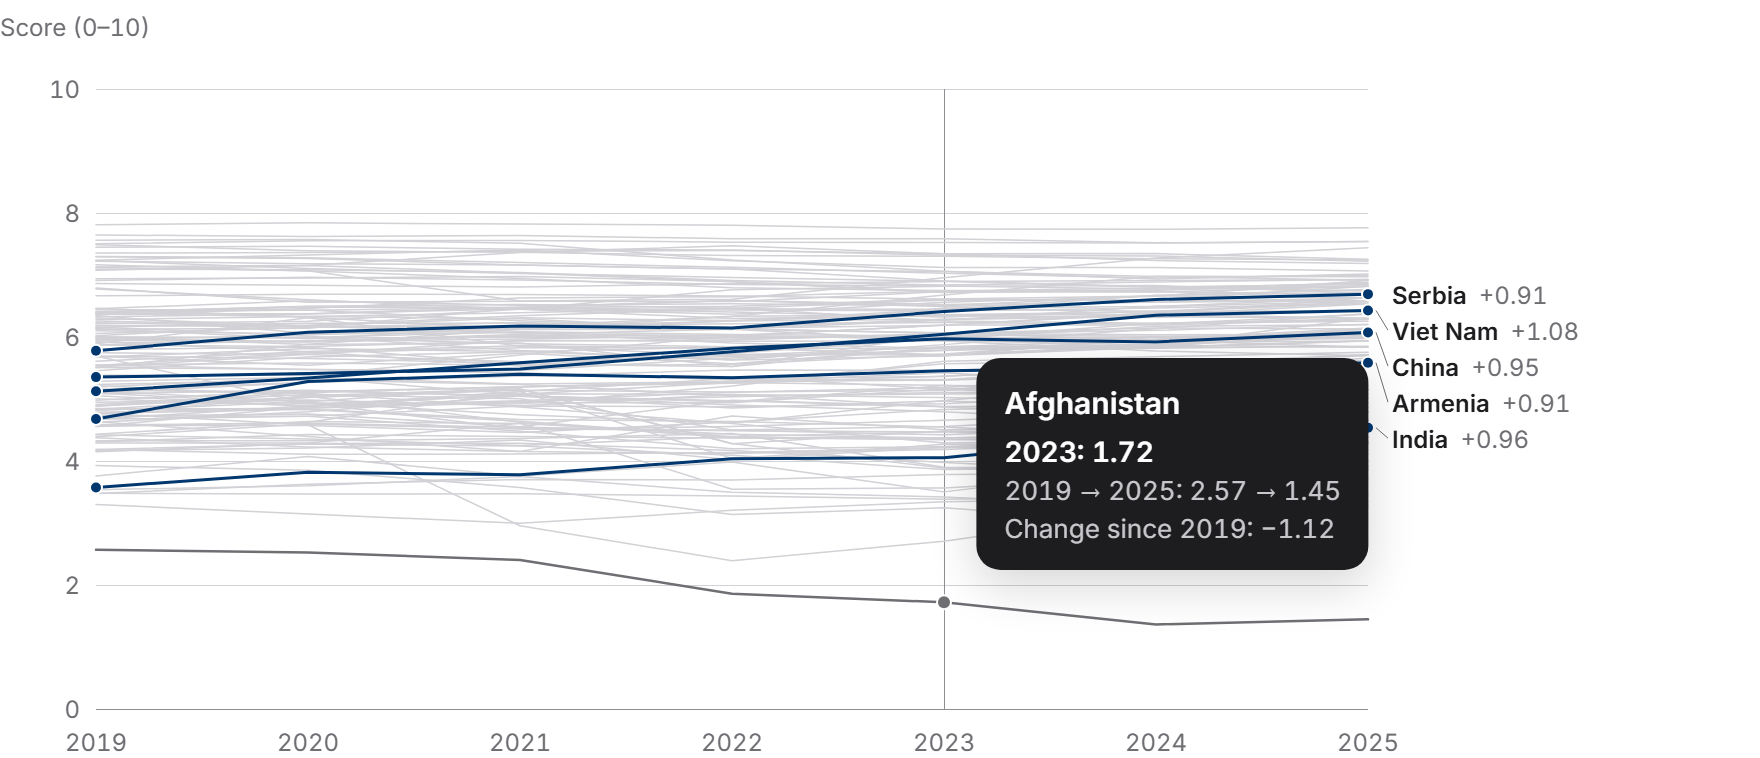
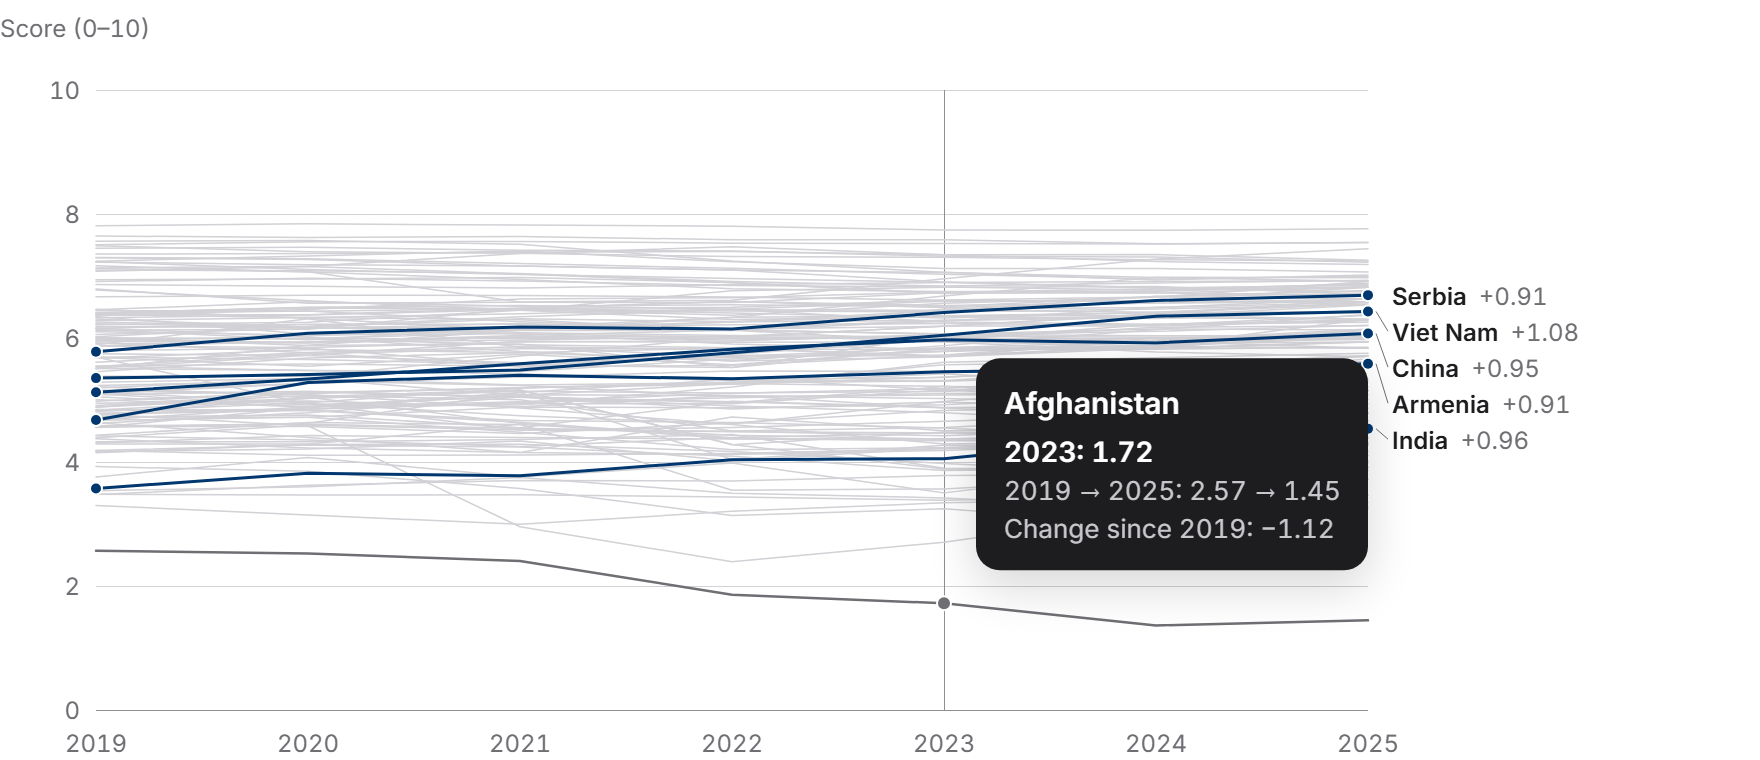
ai: fix the checker's confirmed findings and harden the checks
Page: no sideways page scroll with a table open, filtered-out marks leave the accessibility tree,
table keys don't move the page, highlighted table rows are exposed, high contrast works on black,
and no stale tooltip or crosshair when the keyboard takes over from a parked mouse.
Checks: the Figma crop is now really tested, tooltip clamps are exercised, failures print on a
Windows pipe and exit 1, and unreachable fonts aren't a failure. 58/58.

diff --git a/js/chart2.js b/js/chart2.js
@@ -110,6 +110,8 @@ function chart2(data, continents) {
     // keyboard: tab to a label to light up its line, with the same tooltip as hovering
     label.on("focus", function (event, d) {
       if (focusedByMouse(this)) return;
+      crosshair.attr("visibility", "hidden");
+      marker.attr("visibility", "hidden");
       paintHover(d.s);
       showTooltipAt(this, d.s.country, tip(d.s, 2025));
     }).on("blur", () => {
@@ -211,7 +213,7 @@ function chart2(data, continents) {
 
     paths.filter(highlighted).raise();
     if (state.hover) paths.filter(s => s === state.hover).raise();
-    tableRows.classed("highlighted", highlighted);
+    tableRows.classed("highlighted", highlighted).attr("aria-current", s => highlighted(s) ? "true" : null);
 
     (animate ? dots.transition(t) : dots)
       .attr("r", d => highlighted(d.s) ? 5 : 3)
@@ -234,7 +236,9 @@ function chart2(data, continents) {
       const named = group.selectAll(".label, line");
       (animate ? named.transition(t) : named).attr("opacity", d => included(d.s) ? 1 : faded * 2);
       // only labels you can read are tab stops, the same rule as the rows on charts 1 and 3
-      group.selectAll(".label").attr("tabindex", d => on && included(d.s) ? 0 : -1);
+      group.selectAll(".label")
+        .attr("tabindex", d => on && included(d.s) ? 0 : -1)
+        .attr("aria-hidden", d => included(d.s) ? null : "true");
     }
   }
 
@@ -251,6 +255,7 @@ function chart2(data, continents) {
     },
     filter(continent) {
       state.continent = continent;
+      if (state.hover && !included(state.hover)) leave();
       paint(true);
       tableRows.attr("hidden", s => included(s) ? null : "");
       return series.filter(included).length;

diff --git a/css/site.css b/css/site.css
@@ -148,6 +148,7 @@ h1 {
   border-radius: var(--panel-radius);
   padding: clamp(20px, 3.2vw, 40px);
   display: grid;
+  grid-template-columns: minmax(0, 1fr);
   gap: 16px;
   min-width: 0;
 }
@@ -275,6 +276,7 @@ h2 {
   margin-top: 8px;
   max-height: 440px;
   overflow: auto;
+  overscroll-behavior: contain;
   border-radius: 10px;
   box-shadow: inset 0 0 0 1px var(--color-bg-secondary);
 }
@@ -432,7 +434,7 @@ code { font-family: ui-monospace, SFMono-Regular, Menlo, Consolas, monospace; fo
 
 :focus-visible { outline: 2px solid var(--color-data-focus); outline-offset: 2px; }
 .row, .label, .segmented button, .data-table summary, .table-scroll { scroll-margin-top: 72px; }
-.table-scroll:focus-visible { outline-offset: -2px; }
+.table-scroll:focus-visible { outline-offset: 0; }
 
 /* windows high contrast mode: keep the legend's colors and show which control is selected */
 @media (forced-colors: active) {
@@ -440,6 +442,10 @@ code { font-family: ui-monospace, SFMono-Regular, Menlo, Consolas, monospace; fo
   .chips button[aria-pressed="true"] { background: Highlight; border-color: Highlight; color: HighlightText; forced-color-adjust: none; }
   .segmented .thumb { outline: 2px solid CanvasText; }
   .filter-bar.is-stuck { outline: 1px solid CanvasText; }
+  .chart text, .chart tspan { fill: CanvasText; }
+  .halo { stroke: Canvas; }
+  .row:focus-visible .bar, .row:focus-visible .segment { stroke: Highlight; }
+  .tooltip, .empty { border: 1px solid CanvasText; }
 }
 
 @media (prefers-reduced-motion: reduce) {

diff --git a/js/theme.js b/js/theme.js
@@ -3,6 +3,17 @@
 const css = getComputedStyle(document.documentElement);
 const token = name => css.getPropertyValue(`--${name}`).trim();
 
+// windows high contrast mode replaces the page's colors, so a mark's accent has to be a system
+// color too. d3 needs a real value to animate, so a throwaway element reports what it resolves to
+const forcedColors = window.matchMedia("(forced-colors: active)").matches;
+function systemColor(name) {
+  const probe = document.body.appendChild(document.createElement("span"));
+  probe.style.color = name;
+  const value = getComputedStyle(probe).color;
+  probe.remove();
+  return value;
+}
+
 const colors = {
   ink: token("color-text-primary"),
   muted: token("color-text-secondary"),
@@ -10,7 +21,7 @@ const colors = {
   grid: token("color-line-grid"),
   axis: token("color-line-axis"),
   context: token("color-data-context"),
-  focus: token("color-data-focus")
+  focus: forcedColors ? systemColor("Highlight") : token("color-data-focus")
 };
 
 // one motion setting for every chart change: d3's quartic ease-in-out is the same curve as the

diff --git a/js/chart1.js b/js/chart1.js
@@ -105,7 +105,7 @@ function chart1(data, continents) {
       const included = d => continent === "All" || d.continent === continent;
       row.transition().duration(motion.duration).ease(motion.ease)
         .attr("opacity", d => included(d) ? 1 : faded);
-      row.attr("tabindex", d => included(d) ? 0 : -1);
+      row.attr("tabindex", d => included(d) ? 0 : -1).attr("aria-hidden", d => included(d) ? null : "true");
       tableRows.attr("hidden", d => included(d) ? null : "");
       return rows.filter(included).length;
     },

diff --git a/js/chart3.js b/js/chart3.js
@@ -124,7 +124,7 @@ function chart3(data, continents) {
       const included = d => continent === "All" || d.continent === continent;
       row.transition().duration(motion.duration).ease(motion.ease)
         .attr("opacity", d => included(d) ? 1 : faded);
-      row.attr("tabindex", d => included(d) ? 0 : -1);
+      row.attr("tabindex", d => included(d) ? 0 : -1).attr("aria-hidden", d => included(d) ? null : "true");
       tableRows.attr("hidden", d => included(d) ? null : "");
       return rows.filter(included).length;
     },

diff --git a/scripts/check_page.py b/scripts/check_page.py
@@ -9,6 +9,7 @@ import argparse
 import functools
 import http.server
 import json
+import sys
 import threading
 from decimal import Decimal, ROUND_HALF_UP
 from pathlib import Path
@@ -52,6 +53,7 @@ def serve():
 
 
 def main():
+    sys.stdout.reconfigure(encoding="utf-8")
     parser = argparse.ArgumentParser()
     parser.add_argument("--shots", default=None)
     args = parser.parse_args()
@@ -62,10 +64,13 @@ def main():
     with sync_playwright() as p:
         browser = p.chromium.launch()
         page = browser.new_page(viewport={"width": 1440, "height": 1000})
-        page.on("console", lambda m: errors.append(m.text) if m.type == "error" and "ERR_TUNNEL_CONNECTION_FAILED" not in m.text else None)
+        fonts = ("fonts.googleapis.com", "fonts.gstatic.com")
+        page.on("console", lambda m: errors.append(m.text) if m.type == "error" and not any(f in m.location.get("url", "") for f in fonts) else None)
         page.on("pageerror", lambda e: errors.append(str(e)))
         page.goto(url, wait_until="networkidle")
         page.wait_for_selector("#chart3 .segment", timeout=10000)
+        off = page.eval_on_selector_all("#chart2 svg > g[aria-hidden='true']", "gs => gs.filter(g => g.querySelector('.label')).map(g => g.getAttribute('visibility'))")
+        check("the hidden label set is hidden from first paint", off == ["hidden"], off)
 
         # chart 1: 20 bars, each value label = score at 2 decimals, each bar 128px per point
         c1 = data["chart1_ranked_bar"]["top10"] + data["chart1_ranked_bar"]["bottom10"]
@@ -114,6 +119,12 @@ def main():
         check("every comparison image has alt text", all(s["alt"] for s in stills), stills)
         sizes = page.eval_on_selector_all(".pair", "pairs => pairs.map(p => [...p.querySelectorAll('.shot')].map(s => { const b = s.getBoundingClientRect(); return [Math.round(b.width), Math.round(b.height)]; }))")
         check("each figma and d3 pair is the same size", len(sizes) == 3 and all(a == b for a, b in sizes), sizes)
+        crops = page.eval_on_selector_all(".shot-figma", """shots => shots.map((s, i) => {
+            const [vx, vy, vw] = document.querySelector(`#chart${i + 1} svg`).getAttribute('viewBox').split(' ').map(Number);
+            const box = s.getBoundingClientRect(), im = s.querySelector('img'), img = im.getBoundingClientRect(), k = box.width / vw;
+            return [img.left - box.left + vx * k, img.top - box.top + vy * k, im.getAttribute('src').includes(`chart${i + 1}-`)];
+        })""")
+        check("each figma crop shows its chart's viewbox", len(crops) == 3 and all(abs(x) < 0.5 and abs(y) < 0.5 and own for x, y, own in crops), crops)
 
         # data tables: every cell equals this script's own rounding of chart-data.json
         def table(chart):
@@ -196,6 +207,8 @@ def main():
         african = lambda names: all(continents[n] == "Africa" for n in names)
         one, two, three = visible("#chart1"), visible("#chart2"), visible("#chart3")
         check("the filter also filters the tables", three == ["Mauritius"] and african(one) and african(two) and len(two) == sum(continents[s["country"]] == "Africa" for s in all_lines), (len(one), len(two), three))
+        exposed = page.eval_on_selector_all("#chart1 .row, #chart3 .row, #chart2 g:not([aria-hidden]) > .label", "e => e.filter(x => x.getAttribute('aria-hidden') !== 'true').map(x => x.__data__.s ? x.__data__.s.country : x.__data__.country)")
+        check("filtered-out marks leave the accessibility tree", african(exposed), exposed)
         page.click("#continent-oceania")
         page.wait_for_timeout(450)
         stops = page.eval_on_selector_all("#chart2 .label", "l => l.filter(x => x.getAttribute('tabindex') === '0').map(x => x.__data__.s.country)")
@@ -207,8 +220,8 @@ def main():
         check("chart 2 leader lines fade with their labels", leaders and "0.24" in leaders, leaders)
         page.click("#continent-all")
         page.wait_for_timeout(450)
-        cleared = page.eval_on_selector("#chart1 .empty", "e => e.textContent")
-        check("the empty message clears", cleared == "", cleared)
+        cleared = page.eval_on_selector("#chart1 .empty", "e => [e.textContent, e.classList.contains('on')]")
+        check("the empty message clears", cleared == ["", False], cleared)
 
         # controls don't move when pressed: the toggle and the chips keep their size in both states
         size = "e => e.getBoundingClientRect().width"
@@ -320,10 +333,10 @@ def main():
         # the tooltip stays with a focused row on scroll, and steps away when the row is off screen
         keys.keyboard.press("Tab")
         keys.wait_for_timeout(200)
-        beside = keys.evaluate("() => { const r = document.activeElement.getBoundingClientRect(), t = document.querySelector('.tooltip').getBoundingClientRect(); return Math.abs(t.top - r.top) < 80; }")
+        beside = keys.evaluate("() => { const r = document.activeElement.getBoundingClientRect(), t = document.querySelector('.tooltip').getBoundingClientRect(); return t.top < r.bottom + 40 && t.bottom > r.top - 40; }")
         keys.evaluate("window.scrollBy(0, 60)")
         keys.wait_for_timeout(200)
-        still = keys.evaluate("() => { const r = document.activeElement.getBoundingClientRect(), t = document.querySelector('.tooltip').getBoundingClientRect(); return Math.abs(t.top - r.top) < 80; }")
+        still = keys.evaluate("() => { const r = document.activeElement.getBoundingClientRect(), t = document.querySelector('.tooltip').getBoundingClientRect(); return t.top < r.bottom + 40 && t.bottom > r.top - 40; }")
         keys.evaluate("window.scrollBy(0, 1600)")
         keys.wait_for_timeout(250)
         gone = keys.evaluate(describe)
@@ -346,6 +359,39 @@ def main():
         opened = keys.evaluate("(() => { const d = document.querySelector('#chart2 .data-table'), s = d.querySelector('.table-scroll'); return [d.open, s.scrollHeight > s.clientHeight, s.tabIndex]; })()")
         check("a data table opens with the keyboard and scrolls in its box", opened == [True, True, 0], opened)
         keys.keyboard.press("Enter")
+
+        # a mouse parked on a line must not leave stale marks when the keyboard takes over
+        park = """() => {
+            document.querySelector('#chart2 svg').scrollIntoView({ block: 'center' });
+            const b = document.querySelector('#chart2 svg').getBoundingClientRect();
+            const s = b.width / 1760;
+            return [b.x + (176 + 4 * 212 - 80) * s, b.y + (910 - %s * 62 - 200) * s];
+        }""" % next(s for s in lines["fallers"] if s["country"] == "Afghanistan")["scores"][4]
+        marks = """() => [document.querySelector('.tooltip .tooltip-title').textContent, document.querySelector('.tooltip').classList.contains('visible'), document.querySelector('#chart2 svg > line.axisline').getAttribute('visibility')]"""
+        at = keys.evaluate(park)
+        keys.wait_for_timeout(100)
+        at = keys.evaluate(park)
+        keys.mouse.move(at[0], at[1])
+        keys.wait_for_timeout(100)
+        hovering = keys.evaluate(marks)
+        keys.locator("#continent-africa").focus()
+        keys.keyboard.press("Enter")
+        keys.wait_for_timeout(450)
+        gone = keys.evaluate(marks)
+        check("a filter that removes the hovered line removes its tooltip", hovering[0] == "Afghanistan" and hovering[1] and not gone[1] and gone[2] == "hidden", (hovering, gone))
+        keys.locator("#continent-all").focus()
+        keys.keyboard.press("Enter")
+        keys.mouse.move(5, 5)
+        keys.wait_for_timeout(450)
+        at = keys.evaluate(park)
+        keys.wait_for_timeout(100)
+        keys.mouse.move(at[0], at[1])
+        keys.wait_for_timeout(100)
+        keys.locator("#view-decliners").focus()
+        keys.keyboard.press("Tab")
+        keys.wait_for_timeout(100)
+        tabbed = keys.evaluate(marks)
+        check("tabbing to a label clears a parked mouse's crosshair", tabbed[1] and tabbed[0] != "Afghanistan" and tabbed[2] == "hidden", tabbed)
         keys.close()
 
         # a tooltip opened on a phone-width window stays fully inside the window
@@ -357,7 +403,26 @@ def main():
         small.wait_for_timeout(250)
         edge = small.evaluate("(() => { const t = document.querySelector('.tooltip').getBoundingClientRect(); return [t.left, t.right, innerWidth]; })()")
         check("tooltips stay inside a narrow window", edge[0] >= 0 and edge[1] <= edge[2], edge)
+        rect = "t => { const b = t.getBoundingClientRect(); return [b.left, b.top, b.right, b.bottom, innerWidth, innerHeight]; }"
+        small.evaluate("fillTooltip('x', ['y']); placeTooltip(innerWidth + 200, innerHeight + 200)")
+        high = small.eval_on_selector(".tooltip", rect)
+        small.evaluate("placeTooltip(-200, -200)")
+        low = small.eval_on_selector(".tooltip", rect)
+        check("a tooltip is clamped on all four sides", high[2] <= high[4] and high[3] <= high[5] and low[0] >= 0 and low[1] >= 0, (high, low))
         small.close()
+
+        # high contrast mode: chart text and marks use system colors, so they stay readable on black
+        contrast = browser.new_context(forced_colors="active", color_scheme="dark").new_page()
+        contrast.goto(url, wait_until="networkidle")
+        contrast.wait_for_selector("#chart3 .segment")
+        painted = contrast.evaluate("""() => {
+            const name = getComputedStyle(document.querySelectorAll('#chart1 .row text')[1]).fill;
+            const halo = getComputedStyle(document.querySelector('#chart1 .value')).stroke;
+            const bar = document.querySelector('#chart1 .bar').getAttribute('fill');
+            return [name, halo, bar];
+        }""")
+        check("high contrast mode recolors chart text and marks", painted[0] != "rgb(29, 29, 31)" and painted[1] != "rgb(255, 255, 255)" and painted[2].lower() != "#00376e", painted)
+        contrast.close()
 
         # someone who asks for less motion gets no fades and no delays, including the hover grace
         calm = browser.new_context(reduced_motion="reduce").new_page()
@@ -377,6 +442,7 @@ def main():
     for name, ok, detail in results:
         print(("PASS " if ok else "FAIL ") + name + ("" if ok else f"  -> {detail}"))
     print(f"{passed}/{len(results)} checks passed")
+    sys.exit(0 if passed == len(results) else 1)
 
 
 if __name__ == "__main__":

diff --git a/scripts/capture_d3.py b/scripts/capture_d3.py
@@ -27,7 +27,9 @@ CSS = """
 
 def clip_of(page, chart, block="center"):
     page.evaluate(f"document.querySelector('{chart} svg').scrollIntoView({{ block: '{block}' }})")
-    return page.locator(f"{chart} svg").bounding_box()
+    box = page.locator(f"{chart} svg").bounding_box()
+    # whole pixels, so the still comes out at exactly the viewbox's size
+    return {"x": round(box["x"]), "y": round(box["y"]), "width": box["width"], "height": box["height"]}
 
 
 def main():

diff --git a/CLAUDE.md b/CLAUDE.md
@@ -15,7 +15,7 @@ Handoff from the claude.ai "Open Skill" project chat (Nov 6, 2026) to Claude Cod
 - Deadline: tonight, Nov 6, with an extension possible. Still to come: the ~3-minute video and the ~1-page reflection (David's), and source files (this repo)
 
 ## Hard rules (don't break these while refining)
-- **Data truth.** Never edit `data/chart-data.json` by hand. Regenerate it with `python scripts/prep_data.py --csv data/world-happiness-2019-2025.csv --out data/chart-data.json`, and its SHA-256 must still start with `22c8681b`. `js/main.js` refuses to draw if the fingerprint string changes
+- **Data truth.** Never edit `data/chart-data.json` by hand. Regenerate it with `python scripts/prep_data.py --csv data/world-happiness-2019-2025.csv --out data/chart-data.json`, and its SHA-256 must still start with `22c8681b`. On Windows, git's CRLF line endings change the working copy's hash, so hash the committed file: `git show HEAD:data/chart-data.json | sha256sum`. `js/main.js` refuses to draw if the fingerprint string changes
 - **Numbers.** Use only `formatScore` and `formatChange` (`js/format.js`): 2 decimals from whole thousandths, half away from zero, with a true minus sign. Never `toFixed`
 - **Course AI rule.** AI may write code but doesn't decide what a chart should be. David decides every chart, interaction and piece of copy, so propose and ask before changing them. Keep the AI-use comment in `js/main.js`
 - **Design tokens** come from Figma: edit `scripts/figma-variables.json` (or re-pull with the Figma MCP `get_variable_defs`) and run `python scripts/figma_tokens.py`. Don't hand-edit `css/tokens.css`
@@ -25,21 +25,18 @@ Handoff from the claude.ai "Open Skill" project chat (Nov 6, 2026) to Claude Cod
 
 ## How to run and check
 - Serve: `python -m http.server 8000`, then open http://localhost:8000
-- Checks (the playbook's script checks, run them before every push): `pip install playwright pandas` and `python -m playwright install chromium`, then `python scripts/check_page.py --shots shots`. The first draft passes 20/20
+- Checks (the playbook's script checks, run them before every push): `pip install playwright pandas` and `python -m playwright install chromium`, then `python scripts/check_page.py --shots shots`. It passes 58/58 and exits 1 on any failure
+- After any chart change, regenerate the Figma vs D3 stills: `python scripts/capture_d3.py`
 - Preview bundle for claude.ai: `python scripts/bundle.py` writes `dist/world-happiness.html` (git-ignored)
 
-## Refinement brief (what David wants from this session)
-Polish the first draft with Impeccable and the other design skills (apple-design fits the HIG system; frontend-design, emil-design-eng, design-critique, accessibility-review), within the rules above. Good targets:
-- Typography and spacing rhythm on the masthead, panels and filter bar; the look stays Apple HIG, light, Inter
-- The Figma-vs-D3 story on the page: download the three frame screenshots with the Figma MCP (`get_screenshot`, frames above) into `assets/figma/` and add a side-by-side or before/after per chart. That shot is the video's closing beat
-- Accessibility: run the accessibility-review skill, add a data-table view per chart, and confirm keyboard paths (rows and labels are focusable, with tooltips on focus)
-- Phone layout: charts currently keep a 760 px minimum and scroll sideways inside their own box
-- Copy is David's call: chart 2's grey-lines note was drafted by Claude, so ask him to confirm or reword it
+## Refinement status (Nov 6)
+Done in Claude Code: the audit, the Figma vs D3 section, the approved polish, data tables, keyboard and high-contrast paths. David kept chart 2's grey-lines note as written and dropped the phone layout. Impeccable and frontend-design are installed in `~/.claude/skills` (skill only, no design hook).
+Open for David, nothing built: chart 2 going silent in 8 of 12 filter and toggle states; hover on filtered-out rows; hover on chart 2's end labels; a score definition and hover hints; byline and links; messages for a failed data load; a name for the table scrollers. Accessibility calls: values dimming to 2.17:1 during hover or focus, the tooltip that can't be hovered, grey lines at 1.52:1, and the toggle thumb at 1.16:1.
 
 ## Known issues
 - Checker agent (clean context, Nov 6): all six Done means lines pass. It found three issues, all fixed: rows blinked on the first filter click, the sticky bar's grey label lost contrast over scrolling text, and hover fades ignored reduced motion
 - The tooltip's secondary text color `#c7c7cc` is a literal (Figma's `text/on-dark-secondary` wasn't in the pulled variables)
-- No data tables yet. No Figma screenshots in the repo yet
+- No real screen reader has been run (only Chromium's accessibility tree), and touch and Safari are untested. The Impeccable detector always flags Inter, which is the mandated font, so ignore that one
 - Interactions were picked by David on Nov 6: cursor-following tooltips, hovering any grey line, a continent filter linking all three charts, and an animated risers/decliners toggle
 
 ## When you finish
